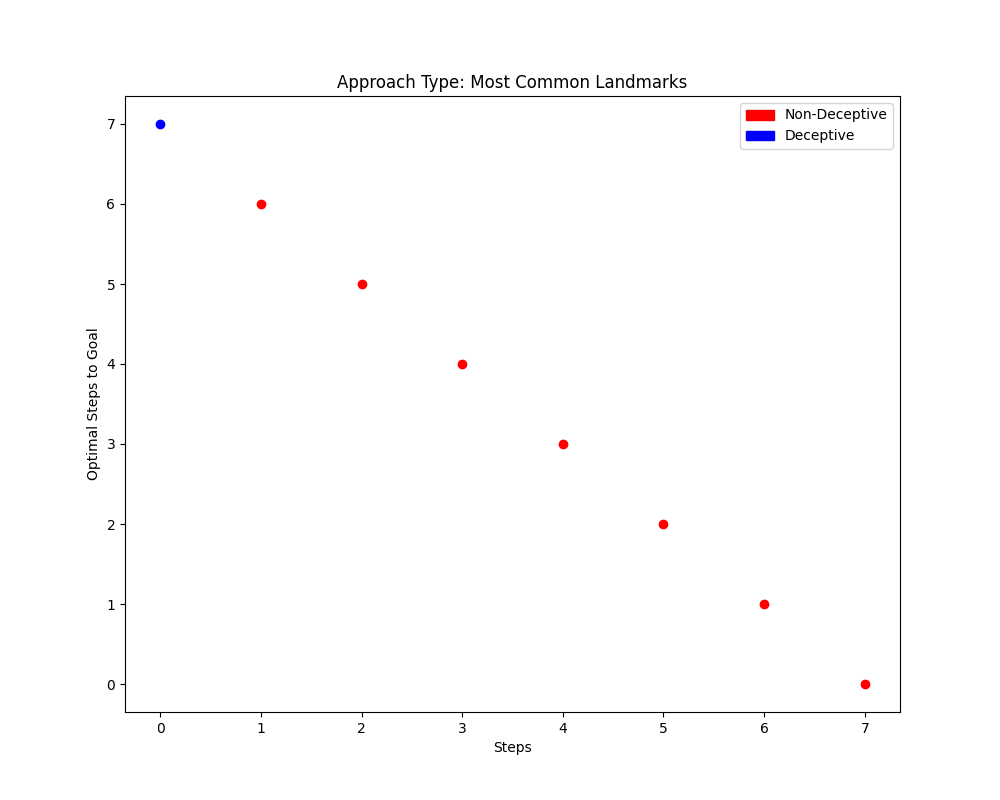
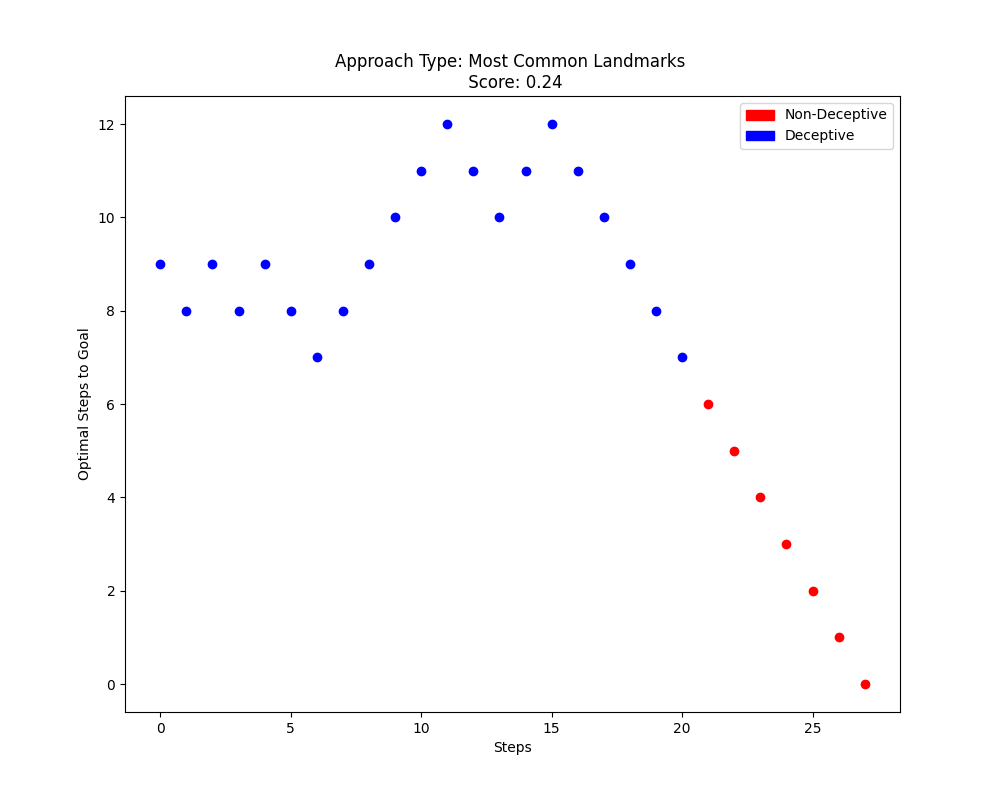
added in rmp calculation

diff --git a/Landmark Planning/pyperplan-master/landmarkextraction.py b/Landmark Planning/pyperplan-master/landmarkextraction.py
@@ -12,6 +12,7 @@ import os
 import pandas as pd
 import matplotlib.pyplot as plt
 import matplotlib.patches as mpatches
+import math
 
 
 class ExtractLandmarks():
@@ -56,7 +57,7 @@ class ExtractLandmarks():
         Loads the necessary resources into class variables. This function is called when
         three arguments are given.
         '''
-        # print(f"##### Getting landmarks #####")
+        print(f"##### Getting landmarks #####")
         self.domainFile: str = os.path.abspath(domaindir)
         with open(hypsdir) as goalsfile:
             self.goals: list[str] = goalsfile.read().splitlines()
@@ -66,10 +67,10 @@ class ExtractLandmarks():
             self.taskTemplate: str = templatefile.read()
 
         # DEBUG
-        # print('# List of Goals parsed: #\n',
-            # *[f"{i} : {a}\n" for i, a in enumerate(self.goals)])
-        # print('# Real Goal parsed: #\n',
-            # f"{self.realGoalIndex} : {self.goals[self.realGoalIndex]}\n")
+        print('# List of Goals parsed: #\n',
+              *[f"{i} : {a}\n" for i, a in enumerate(self.goals)])
+        print('# Real Goal parsed: #\n',
+              f"{self.realGoalIndex} : {self.goals[self.realGoalIndex]}\n")
 
         self.__populate()
 
@@ -94,8 +95,8 @@ class ExtractLandmarks():
             landmarks_set = list(map(self.parse_goal, landmarks))
             self.landmarks.append(landmarks_set)
 
-        # print('# List of Landmarks calculated:\n',
-            # * [f"{i} : {self.goals[i]} : {a}\n" for i, a in enumerate(self.landmarks)])
+        print('# List of Landmarks calculated:\n',
+              * [f"{i} : {self.goals[i]} : {a}\n" for i, a in enumerate(self.landmarks)])
 
     def tempLoc(self, name):
         ''' Returns an absolute directory to the temp location.
@@ -111,13 +112,13 @@ class ExtractLandmarks():
         goal_task = _ground(
             _parse(self.domainFile, self.tempLoc("task0.pddl")))
         for goal in self.goals:
-            # print(f"Calculating OPTIMAL...")
-            # print(goal)
+            print(f"Calculating OPTIMAL...")
+            print(goal)
             goal_task.goals = self.parse_goal(goal)
             heuristic = LmCutHeuristic(goal_task)
             goal_plan = astar_search(goal_task, heuristic)
             optimal_paths.append(len(goal_plan))
-            # print(f"Calculated length: {len(goal_plan)}")
+            print(f"Calculated length: {len(goal_plan)}")
         return optimal_paths
 
     def getRealGoal(self, parse=False):
@@ -187,9 +188,9 @@ class GoalToRealGoalApproach(ApproachTemplate):
         # print(landmarkIntersection)
         landmarkSetIndex = landmarkIntersection.index(
             max(landmarkIntersection, key=len))  # Result has a list of landmarks
-        # print(
-        # "# The index of the goal with the largest number of landmarks in common",
-        # landmarkSetIndex)
+        print(
+            "# The index of the goal with the largest number of landmarks in common",
+            landmarkSetIndex)
 
         ordered_l = []
         ordered_l.append(self.l.getGoal(landmarkSetIndex, True))
@@ -220,8 +221,8 @@ class OldScoringApproach(ApproachTemplate):
             initialTask.goals = landmark
             # get the landmarks of this landmark
             landmarks = get_landmarks(initialTask)
-            # print(f"LANDMARKS:{landmark} : {landmarks}")
-            # print(f"Landmark: {landmark}, Score: {len(landmarks)}")
+            print(f"LANDMARKS:{landmark} : {landmarks}")
+            print(f"Landmark: {landmark}, Score: {len(landmarks)}")
             return len(landmarks)
 
         # PICKING LANDMARKS
@@ -233,22 +234,22 @@ class OldScoringApproach(ApproachTemplate):
                                              self.l.getRealLandmark()) for i in self.l.landmarks]
         # Intersection with self to empty set
         landmarkIntersection[self.l.realGoalIndex] = {}
-        # print(
-        # "# Intersection of goals with the real goal",
-        # *[f"{i}: {a} " if i != self.l.realGoalIndex else "" for i, a in enumerate(landmarkIntersection)])
+        print(
+            "# Intersection of goals with the real goal",
+            *[f"{i}: {a} " if i != self.l.realGoalIndex else "" for i, a in enumerate(landmarkIntersection)])
 
         # Result has a list of landmarks
         landmarkSet = max(landmarkIntersection, key=len)
-        # print(
-        # "# The intersection with the largest number of landmarks",
-        # *[f"{i}: {a} " for i, a in enumerate(landmarkSet)])
+        print(
+            "# The intersection with the largest number of landmarks",
+            *[f"{i}: {a} " for i, a in enumerate(landmarkSet)])
 
         # LANDMARK ORDERING
-        # print(f"# Sorting based on score")
-        # print(landmarkSet)
+        print(f"# Sorting based on score")
+        print(landmarkSet)
         ordered_l = sorted(
             landmarkSet, key=lambda landmark: ordering_score(landmark))
-        # print(f"Sorted based on score: {ordered_l}")
+        print(f"Sorted based on score: {ordered_l}")
         ordered_l.append(self.l.getRealGoal(True))
         return ordered_l
 
@@ -281,7 +282,7 @@ class NewScoringApproach(ApproachTemplate):
                 score = sum([ordering_score(self.l.parse_goal(lm))
                              for lm in landmarks]) + 1
                 mem_dict[frozenset(landmark)] = score
-                # print(mem_dict)
+
             return score
 
         def intersection(lst1, lst2):
@@ -292,9 +293,9 @@ class NewScoringApproach(ApproachTemplate):
                                              self.l.getRealLandmark()) for i in self.l.landmarks]
         # Intersection with self to empty set
         landmarkIntersection[self.l.realGoalIndex] = {}
-        # print(
-        # "# Intersection of goals with the real goal",
-        # *[f"{i}: {a} " if i != self.l.realGoalIndex else "" for i, a in enumerate(landmarkIntersection)])
+        print(
+            "# Intersection of goals with the real goal",
+            *[f"{i}: {a} " if i != self.l.realGoalIndex else "" for i, a in enumerate(landmarkIntersection)])
 
         maximumIntersectionIndex = landmarkIntersection.index(max(
             landmarkIntersection, key=len))  # Result has an index of the maximum intersection
@@ -365,7 +366,7 @@ class ApproachTester():
             and calculate the end state after traversing the path. Deception keeps track of whether FTP and LDP have been reached in form of (BOOLEAN,BOOLEAN)
             '''
             task, steps, deception_array = acc
-            # print(f"###### Finding path to {goal} #####")
+            print(f"###### Finding path to {goal} #####")
 
             task.goals = goal
             heuristic = LandmarkHeuristic(task)
@@ -375,8 +376,8 @@ class ApproachTester():
             # Applying these ops to the state
             for op in path:
                 steps += 1
-                # print(f"Current State: {task.initial_state}")
-                # print(f"Applying step {steps}: {op}")
+                print(f"Current State: {task.initial_state}")
+                print(f"Applying step {steps}: {op}")
                 # TODO Check deceptivity here rather than at landmarks
                 task.initial_state = op.apply(task.initial_state)
 
@@ -385,7 +386,7 @@ class ApproachTester():
             return task, steps, deception_array
 
         for approach in self.approaches:
-            # print(f"##### Approach: {approach.NAME} #####")
+            print(f"##### Approach: {approach.NAME} #####")
             parser = Parser(self.l.domainFile, self.l.tempLoc("task0.pddl"))
             dom = parser.parse_domain()
             problem = parser.parse_problem(dom)
@@ -395,18 +396,26 @@ class ApproachTester():
                 pathToGoal, orderedPath, (initialTask, 0, []))
             calc = self.l.getRealGoal(True)
 
+            rmp = self.generate_rmp()
+            deception_before_rmp = deception_array[: len(
+                deception_array) - math.ceil(rmp)]
+            deceptive_steps = len(
+                list(filter(lambda x: not x[0], deception_before_rmp)))
+            score = (len(deception_array) - self.l.optimal_plans[self.l.realGoalIndex]) / \
+                ((deceptive_steps / len(deception_before_rmp)) * 100)
+
             # check that the goal is indeed reached
             # assert calc.issubset(task.initial_state)
-            # print(f"FINAL RESULT: {steps} steps taken to reach final goal.")
+            print(f"FINAL RESULT: {steps} steps taken to reach final goal.")
             deceptive_stats = self.calc_deceptive_stats(deception_array)
-            self.plot(deception_array, approach)
-            # print(f"Density of deception: {deceptive_stats[0]}")
-            # print(f"Extent of deception: {deceptive_stats[1]}")
+            self.plot(deception_array, approach, score)
+            print(f"Density of deception: {deceptive_stats[0]}")
+            print(f"Extent of deception: {deceptive_stats[1]}")
 
-    def plot(self, deception_array, approach):
+    def plot(self, deception_array, approach, score):
         dir = "temp/"
         plt.figure(figsize=(10, 8))
-        plt.title(f"Approach Type: {approach.NAME}")
+        plt.title(f"Approach Type: {approach.NAME} \n Score: {score}")
         pathlength = self.l.optimal_plans[self.l.realGoalIndex]
         df = pd.DataFrame(deception_array, columns=[
             'deceptive', 'deceptiveness'])
@@ -440,6 +449,24 @@ class ApproachTester():
         state_task.goals = original_goal
         return len(state_plan)
 
+    # TODO Refactor to output path completion as well as cost_dif
+    def optc_for_task(self, state_task):
+        '''
+        Calculates the optimal cost from current state to goal. Can be used to calculate cost diff and probability distributions.
+
+        @param goal:  Integer specifying goal from self.goals list
+        @param state_task: Task instance for current state
+        @return: integer representation of length of path from current state to the given goal.
+        '''
+        heuristic = LmCutHeuristic(state_task)
+        state_plan = astar_search(state_task, heuristic)
+        print(state_task.initial_state, '  ->  ',
+              state_task.goals, '\n', state_plan, '\n')
+
+        if state_plan is None:
+            return math.inf
+        return len(state_plan)
+
     def deceptive_stats(self, state_task):
         '''
         Calculates statistics related to deception for a certain state such as truthfulness and plan completion.
@@ -469,6 +496,58 @@ class ApproachTester():
             else:
                 LDP_path_comp = state[1]
         return 1 / truths, LDP_path_comp
+
+    def generate_rmp(self):
+        rmp_values = []
+
+        for goal in self.l.goals:
+
+            if goal == self.l.getRealGoal():
+                continue
+
+            print(f"Calculating RMP...")
+            print(goal)
+            candidate_goal = self.l.parse_goal(goal)
+
+            start_to_real = _ground(
+                _parse(self.l.domainFile, self.l.tempLoc("task0.pddl")))
+            heuristic = LmCutHeuristic(start_to_real)
+            start_to_real_path = astar_search(start_to_real, heuristic)
+            start_to_real_cost = len(start_to_real_path)
+
+            print(f"start_to_real length: {start_to_real_cost}")
+
+            start_to_candidate = _ground(
+                _parse(self.l.domainFile, self.l.tempLoc("task0.pddl")))
+            start_to_candidate.goals = candidate_goal
+            heuristic = LmCutHeuristic(start_to_candidate)
+            start_to_candidate_path = astar_search(
+                start_to_candidate, heuristic)
+            start_to_candidate_cost = len(
+                start_to_candidate_path)
+
+            print(f"start_to_candidate_cost length: {start_to_candidate_cost}")
+
+            real_to_candidate = _ground(
+                _parse(self.l.domainFile, self.l.tempLoc("task0.pddl")))
+
+            for op in start_to_real_path:
+                real_to_candidate.initial_state = op.apply(
+                    real_to_candidate.initial_state)
+            real_to_candidate.goals = candidate_goal
+
+            heuristic = LmCutHeuristic(real_to_candidate)
+            real_to_candidate_cost = len(
+                astar_search(real_to_candidate, heuristic))
+
+            print(f"real_to_candidate_cost length: {real_to_candidate_cost}")
+
+            rmp_values.append((real_to_candidate_cost + start_to_real_cost -
+                              start_to_candidate_cost) / 2)
+
+        print(f"rmp value: {min(rmp_values)}, rmp array: {rmp_values}")
+
+        return min(rmp_values)
 
 
 if __name__ == "__main__":

diff --git a/Landmark Planning/pyperplan-master/src/pyperplan/pddl/tree_visitor.py b/Landmark Planning/pyperplan-master/src/pyperplan/pddl/tree_visitor.py
@@ -57,7 +57,8 @@ class Visitable:
 
     def accept(self, visitor):
         if self._visitorName == None:
-            raise ValueError("Error: visit method of uninitialized visitor " "called!")
+            raise ValueError(
+                "Error: visit method of uninitialized visitor " "called!")
         # get the appropriate method of the visitor instance
         m = getattr(visitor, self._visitorName)
         # ensure that the method is callable
@@ -395,7 +396,8 @@ class TraversePDDLDomain(PDDLVisitor):
         else:
             # If not 'and' we only allow a single predicate in precondition.
             if not formula.key in self._predicates:
-                raise SemanticError("Error: predicate in precondition is not " "in CNF")
+                raise SemanticError(
+                    "Error: predicate in precondition is not " "in CNF")
             # Call helper.
             self.add_precond(precond, formula)
         self.set_in(node, precond)
@@ -430,7 +432,8 @@ class TraversePDDLDomain(PDDLVisitor):
                 "of action" % nextPredicate.key
             )
         if nextPredicate == None:
-            raise SemanticError("Error: NoneType predicate used in effect of " "action")
+            raise SemanticError(
+                "Error: NoneType predicate used in effect of " "action")
         predDef = self._predicates[nextPredicate.key]
         signature = list()
         count = 0
